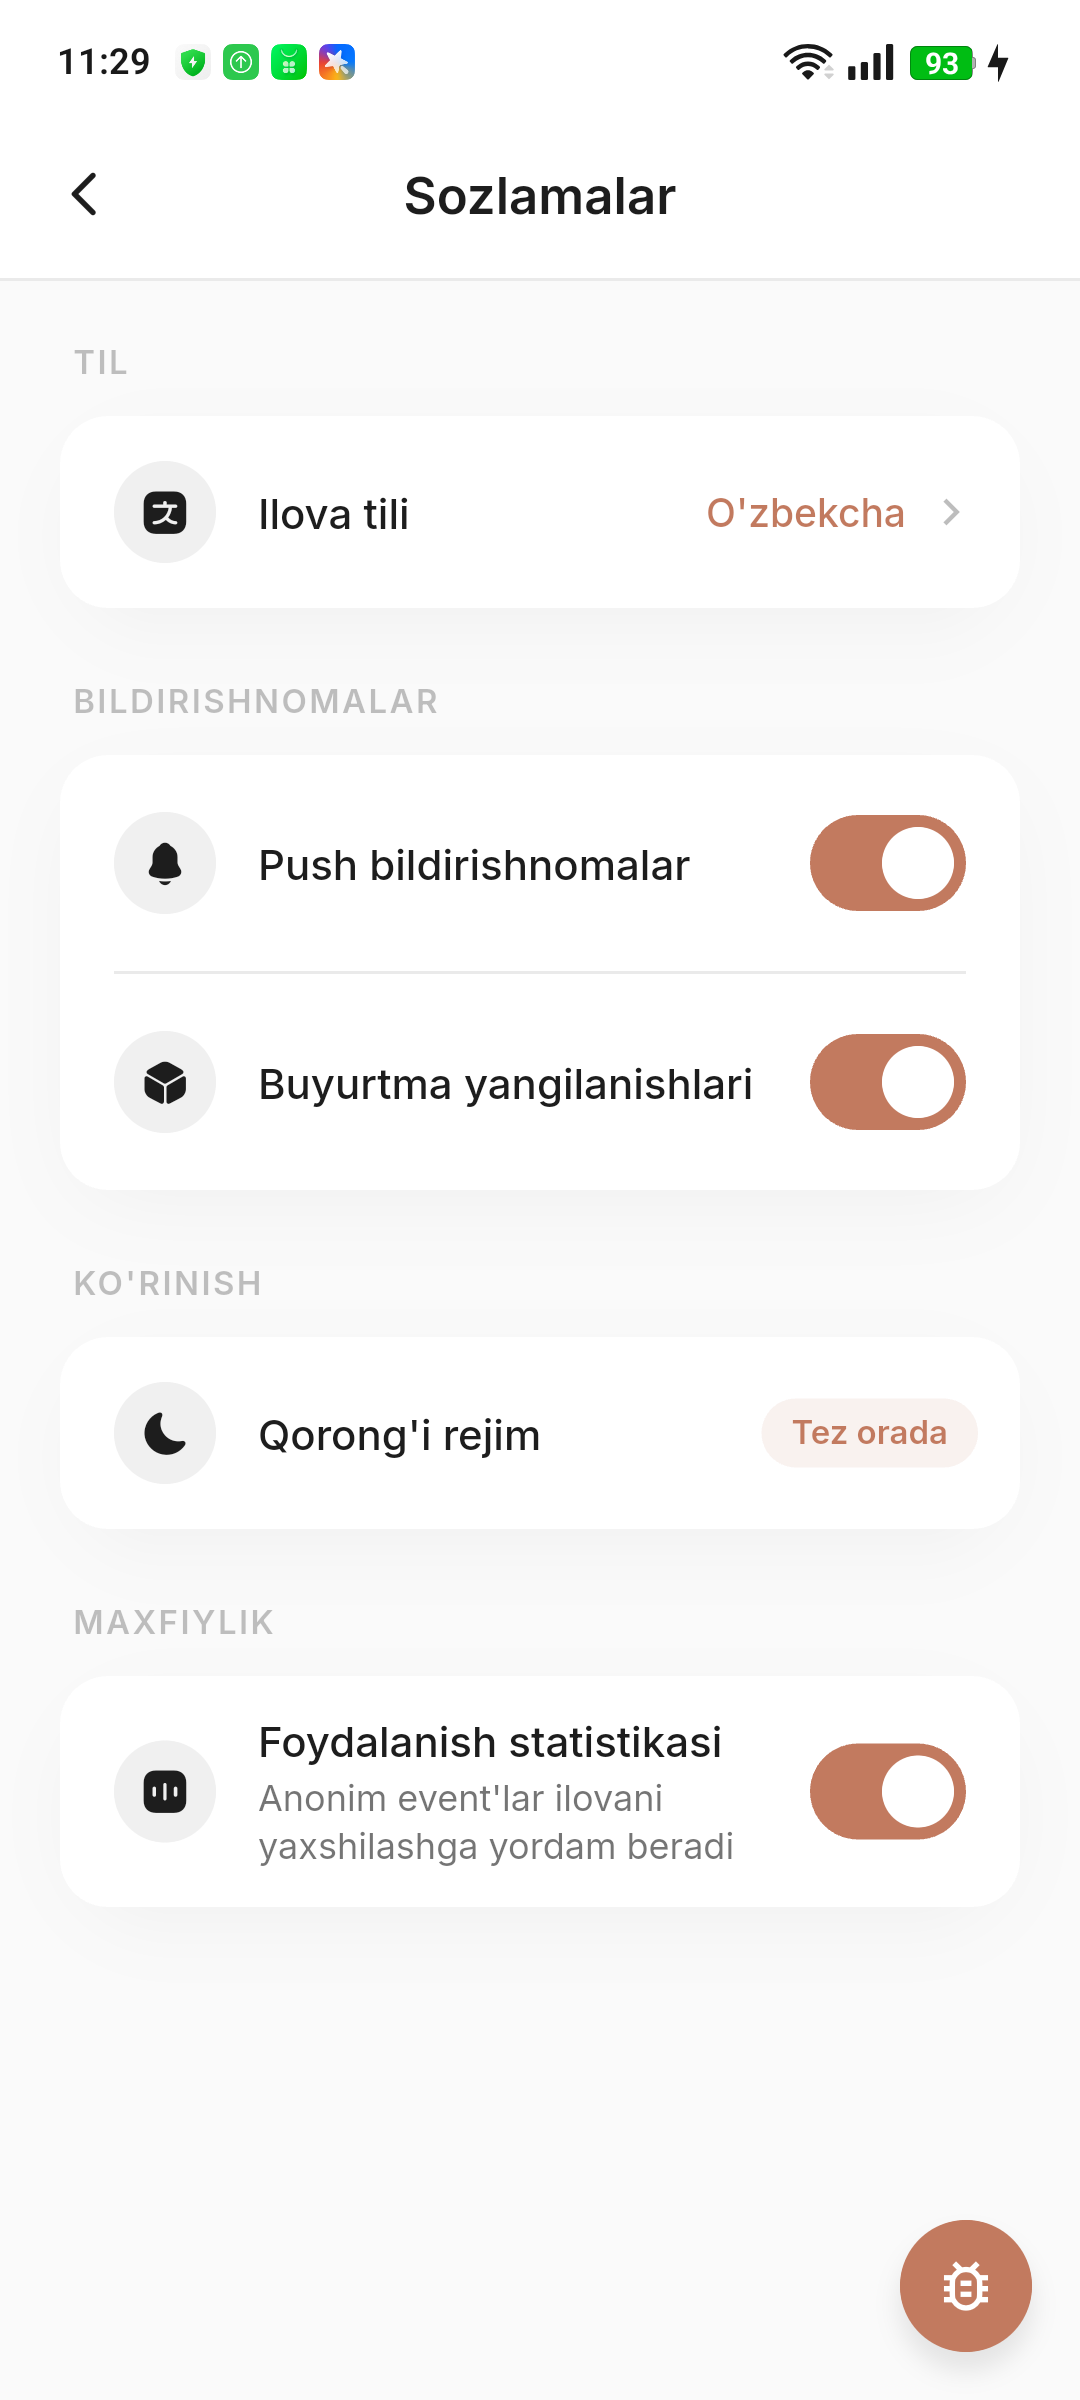
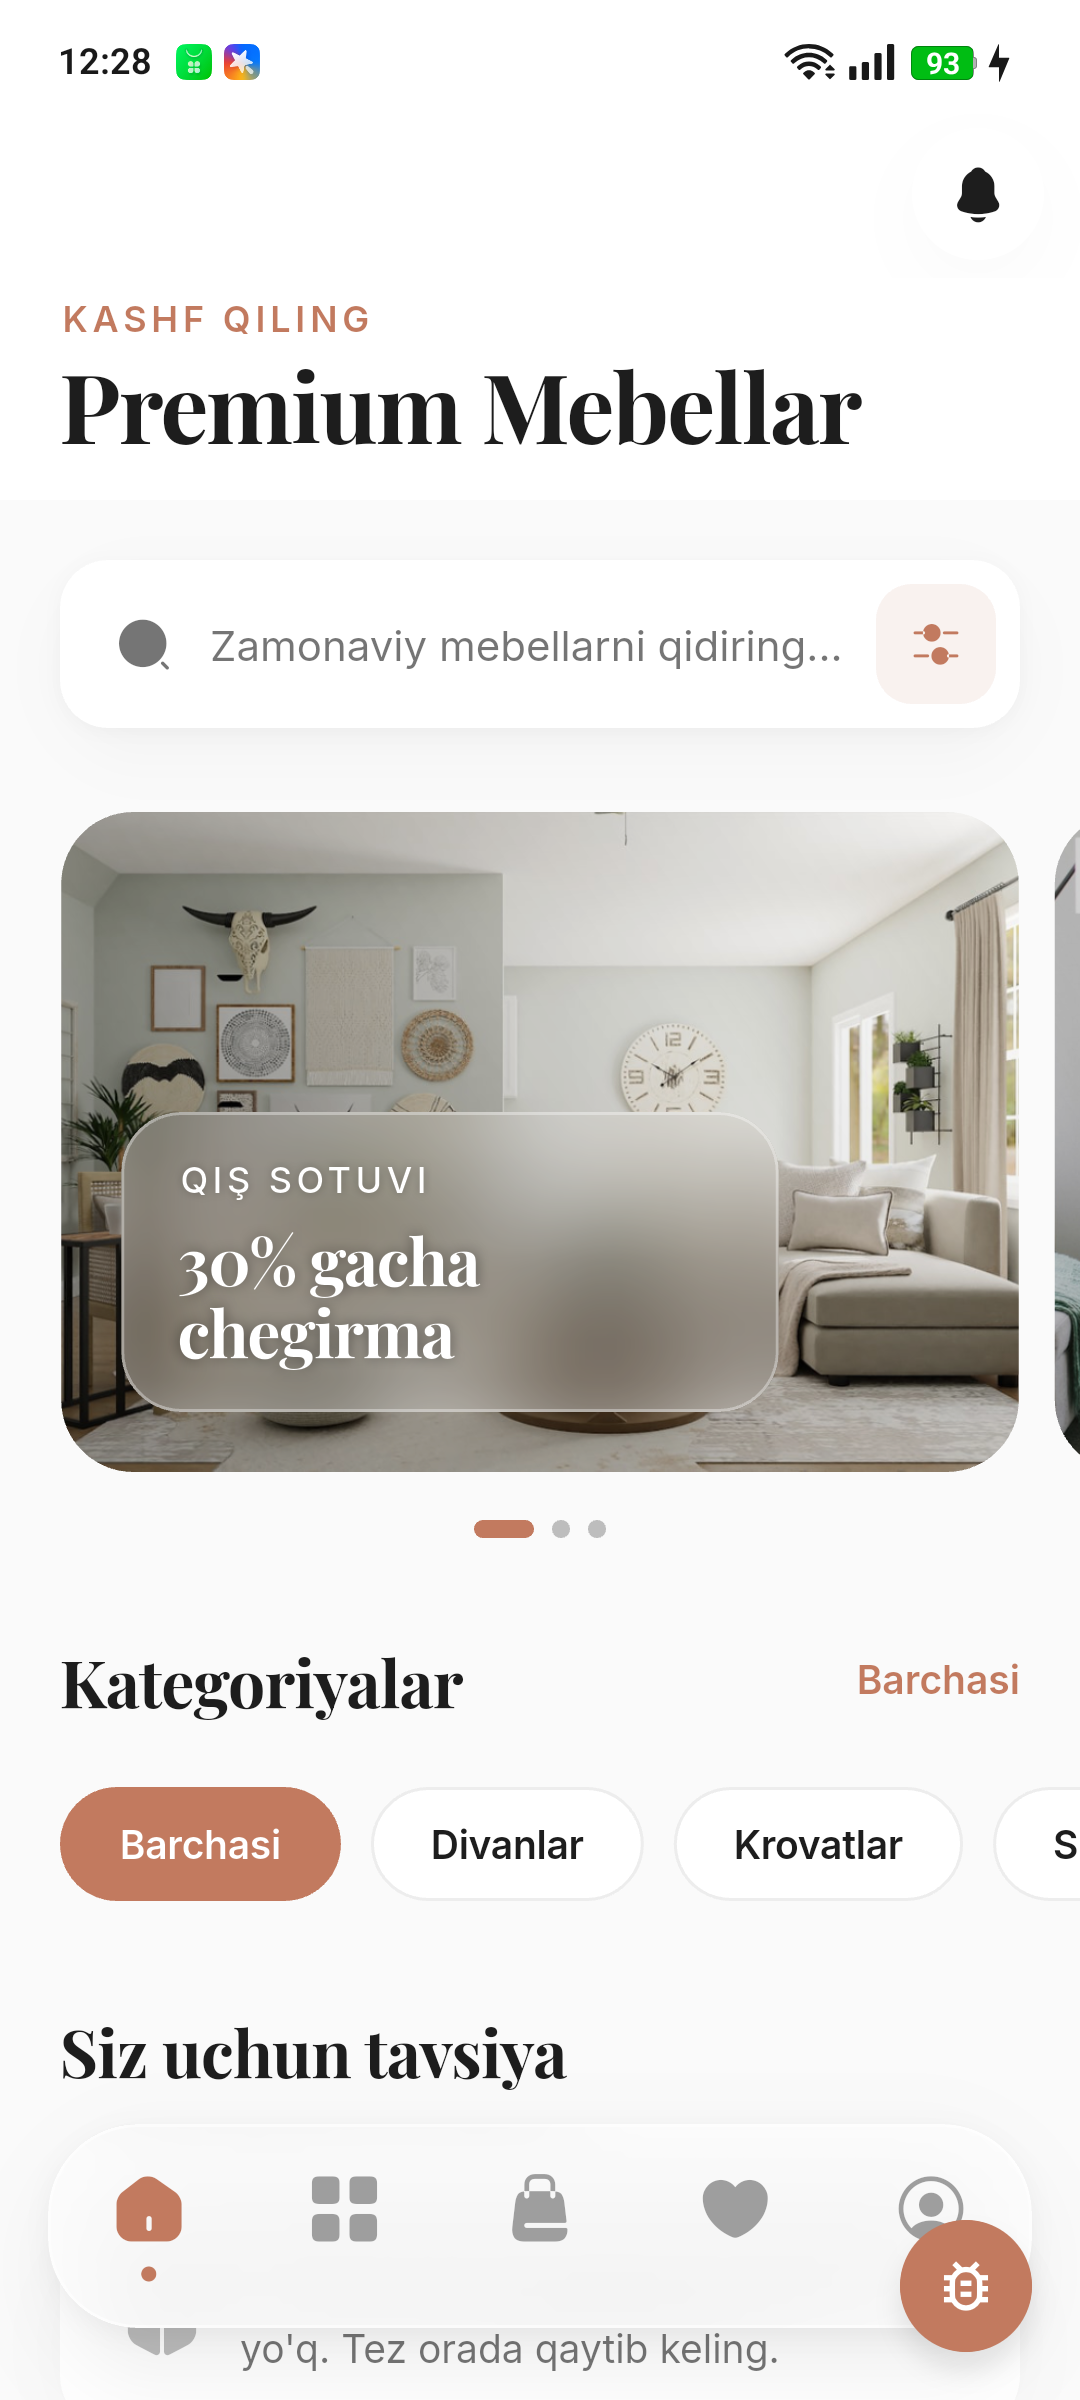
feat: добавление обработки нажатий на баннеры с маршрутизацией

diff --git a/lib/customer/features/home/widgets/premium/glass_banner.dart b/lib/customer/features/home/widgets/premium/glass_banner.dart
@@ -2,7 +2,9 @@ import 'dart:ui';
 
 import 'package:cached_network_image/cached_network_image.dart';
 import 'package:flutter/material.dart';
+import 'package:go_router/go_router.dart';
 import 'package:shimmer/shimmer.dart';
+import 'package:url_launcher/url_launcher.dart';
 
 import '../../../../../shared/models/banner.dart';
 import '../../../../../shared/widgets/image_error_placeholder.dart';
@@ -66,6 +68,30 @@ class _GlassBannerState extends State<GlassBanner> {
   }
 }
 
+/// Routes a banner tap to the configured target. Mirrors the admin panel's
+/// action picker (category / product / url). Unknown types (incl. 'shop',
+/// which has no customer screen yet) are no-ops.
+Future<void> _handleBannerTap(BuildContext context, HomeBanner banner) async {
+  final type = banner.linkType ?? '';
+  final target = banner.linkTarget?.trim() ?? '';
+  if (target.isEmpty) return;
+
+  if (type == 'url') {
+    final uri = Uri.tryParse(target);
+    if (uri != null) {
+      await launchUrl(uri, mode: LaunchMode.externalApplication);
+    }
+    return;
+  }
+
+  final route = switch (type) {
+    'product' => '/product-detail/$target',
+    'category' => '/product-list?categoryId=${Uri.encodeComponent(target)}',
+    _ => null,
+  };
+  if (route != null) context.push(route);
+}
+
 class _BannerCard extends StatelessWidget {
   const _BannerCard({required this.data, required this.height});
 
@@ -79,99 +105,113 @@ class _BannerCard extends StatelessWidget {
     final eyebrow = data.title?.get(lang) ?? '';
     final title = data.subtitle?.get(lang) ?? '';
     final hasText = eyebrow.isNotEmpty || title.isNotEmpty;
+    final hasAction =
+        (data.linkType ?? '').isNotEmpty &&
+        (data.linkTarget ?? '').trim().isNotEmpty;
 
     return Padding(
       padding: const EdgeInsets.symmetric(horizontal: 6),
-      child: ClipRRect(
-        borderRadius: BorderRadius.circular(24),
-        child: Stack(
-          fit: StackFit.expand,
-          children: [
-            CachedNetworkImage(
-              imageUrl: data.imageUrl,
-              // ROADMAP B.7 — full-width banner; cap near device width.
-              memCacheWidth: 1080,
-              fit: BoxFit.cover,
-              placeholder: (_, _) => Shimmer.fromColors(
-                baseColor: pt.imageBg,
-                highlightColor: const Color(0xFFFAFAFA),
-                child: Container(color: Colors.white),
+      child: GestureDetector(
+        behavior: HitTestBehavior.opaque,
+        onTap: hasAction ? () => _handleBannerTap(context, data) : null,
+        child: ClipRRect(
+          borderRadius: BorderRadius.circular(24),
+          child: Stack(
+            fit: StackFit.expand,
+            children: [
+              CachedNetworkImage(
+                imageUrl: data.imageUrl,
+                // ROADMAP B.7 — full-width banner; cap near device width.
+                memCacheWidth: 1080,
+                fit: BoxFit.cover,
+                placeholder: (_, _) => Shimmer.fromColors(
+                  baseColor: pt.imageBg,
+                  highlightColor: const Color(0xFFFAFAFA),
+                  child: Container(color: Colors.white),
+                ),
+                errorWidget: (_, _, _) =>
+                    const ImageErrorPlaceholder(iconSize: 40),
               ),
-              errorWidget: (_, _, _) =>
-                  const ImageErrorPlaceholder(iconSize: 40),
-            ),
-            const DecoratedBox(
-              decoration: BoxDecoration(
-                gradient: LinearGradient(
-                  begin: Alignment.topRight,
-                  end: Alignment.bottomLeft,
-                  colors: [Colors.transparent, Colors.black26],
+              const DecoratedBox(
+                decoration: BoxDecoration(
+                  gradient: LinearGradient(
+                    begin: Alignment.topRight,
+                    end: Alignment.bottomLeft,
+                    colors: [Colors.transparent, Colors.black26],
+                  ),
                 ),
               ),
-            ),
-            if (hasText)
-              Positioned(
-                left: 20,
-                bottom: 20,
-                right: 80,
-                child: ClipRRect(
-                  borderRadius: BorderRadius.circular(20),
-                  child: BackdropFilter(
-                    filter: ImageFilter.blur(sigmaX: 18, sigmaY: 18),
-                    child: Container(
-                      padding: const EdgeInsets.symmetric(
-                        horizontal: 18,
-                        vertical: 14,
-                      ),
-                      decoration: BoxDecoration(
-                        color: Colors.white.withValues(alpha: 0.18),
-                        borderRadius: BorderRadius.circular(20),
-                        border: Border.all(
-                          color: Colors.white.withValues(alpha: 0.35),
-                          width: 1,
+              if (hasText)
+                Positioned(
+                  left: 20,
+                  bottom: 20,
+                  right: 80,
+                  child: ClipRRect(
+                    borderRadius: BorderRadius.circular(20),
+                    child: BackdropFilter(
+                      filter: ImageFilter.blur(sigmaX: 18, sigmaY: 18),
+                      child: Container(
+                        padding: const EdgeInsets.symmetric(
+                          horizontal: 18,
+                          vertical: 14,
                         ),
-                      ),
-                      child: Column(
-                        crossAxisAlignment: CrossAxisAlignment.start,
-                        mainAxisSize: MainAxisSize.min,
-                        children: [
-                          if (eyebrow.isNotEmpty)
-                            Text(
-                              eyebrow,
-                              style: PremiumTokens.body(
-                                size: 12,
-                                weight: FontWeight.w500,
-                                color: Colors.white,
-                                letterSpacing: 1.5,
-                              ).copyWith(
-                                shadows: const [
-                                  Shadow(blurRadius: 8, color: Colors.black26),
-                                ],
+                        decoration: BoxDecoration(
+                          color: Colors.white.withValues(alpha: 0.18),
+                          borderRadius: BorderRadius.circular(20),
+                          border: Border.all(
+                            color: Colors.white.withValues(alpha: 0.35),
+                            width: 1,
+                          ),
+                        ),
+                        child: Column(
+                          crossAxisAlignment: CrossAxisAlignment.start,
+                          mainAxisSize: MainAxisSize.min,
+                          children: [
+                            if (eyebrow.isNotEmpty)
+                              Text(
+                                eyebrow,
+                                style:
+                                    PremiumTokens.body(
+                                      size: 12,
+                                      weight: FontWeight.w500,
+                                      color: Colors.white,
+                                      letterSpacing: 1.5,
+                                    ).copyWith(
+                                      shadows: const [
+                                        Shadow(
+                                          blurRadius: 8,
+                                          color: Colors.black26,
+                                        ),
+                                      ],
+                                    ),
                               ),
-                            ),
-                          if (eyebrow.isNotEmpty && title.isNotEmpty)
-                            const SizedBox(height: 6),
-                          if (title.isNotEmpty)
-                            Text(
-                              title,
-                              style: PremiumTokens.display(
-                                size: 22,
-                                color: Colors.white,
-                                height: 1.1,
-                              ).copyWith(
-                                shadows: const [
-                                  Shadow(
-                                      blurRadius: 12, color: Colors.black38),
-                                ],
+                            if (eyebrow.isNotEmpty && title.isNotEmpty)
+                              const SizedBox(height: 6),
+                            if (title.isNotEmpty)
+                              Text(
+                                title,
+                                style:
+                                    PremiumTokens.display(
+                                      size: 22,
+                                      color: Colors.white,
+                                      height: 1.1,
+                                    ).copyWith(
+                                      shadows: const [
+                                        Shadow(
+                                          blurRadius: 12,
+                                          color: Colors.black38,
+                                        ),
+                                      ],
+                                    ),
                               ),
-                            ),
-                        ],
+                          ],
+                        ),
                       ),
                     ),
                   ),
                 ),
-              ),
-          ],
+            ],
+          ),
         ),
       ),
     );
